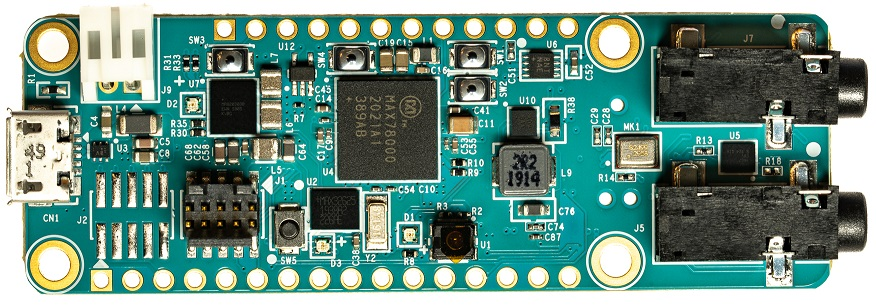
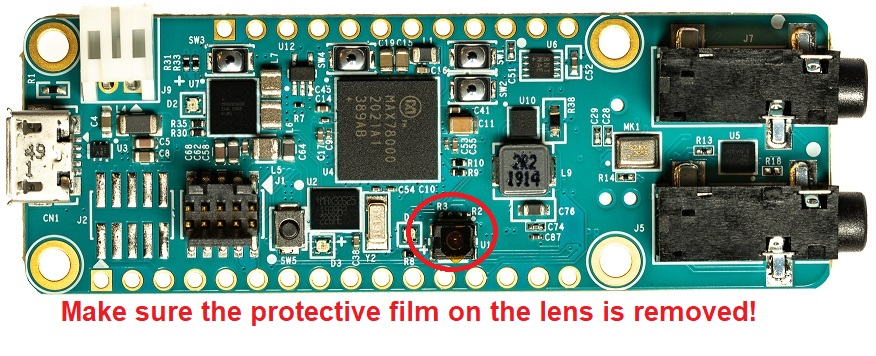
Added note to evkit and feather readme to remove film from lens (#38)

diff --git a/MAX78000_Evaluation_Kit/README.md b/MAX78000_Evaluation_Kit/README.md
@@ -1,3 +1,5 @@
+
+
 # Getting Started with the MAX78000 Evaluation Kit (EV Kit)
 
 ## List of Evaluation Kit Components
@@ -7,7 +9,7 @@ Before beginning, you should make sure you have all of the following components 
   * MAX32625PICO Debugger with Cables
   * Olimex ARM-USB-OCD-H
   * Olimex ARM-JTAG 20-10 ADAPTER
-  * Camera Module
+  * Camera Module + right angle header adapter
   * 2 USB-A to MICRO-B Cables
   * 1 USB-A to USB-B Cable
   * Extra Shunts
@@ -15,7 +17,16 @@ Before beginning, you should make sure you have all of the following components 
 ## Picture of EV Kit
 ![](MAX78000_RevA_EV_Kit.jpg)
 
+## Picture of Camera Module:
+
+<img src="./resources/camera.jpg" style="zoom:50%;" />
+
+For demos that need the camera to work in selfie mode(e.g. faceID), please use the provided right angle adapter to connect the camera to the evkit.
+
+**Make sure to remove all protective film from the camera lens.**
+
 ## Rev A EV Kit Schematic
+
 EV Kit schematic: [Schematics](https://www.maximintegrated.com/en/products/microcontrollers/MAX78000EVKIT.html)
 
 ## Powering the MAX78000 Evaluation Kit for the First Time
